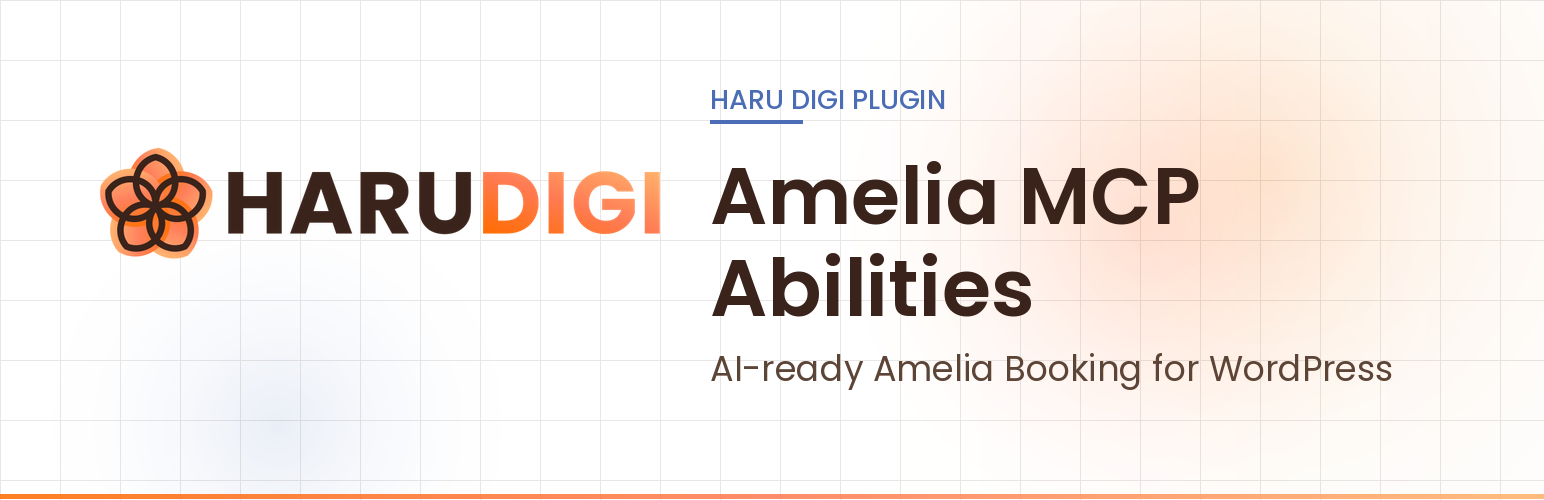
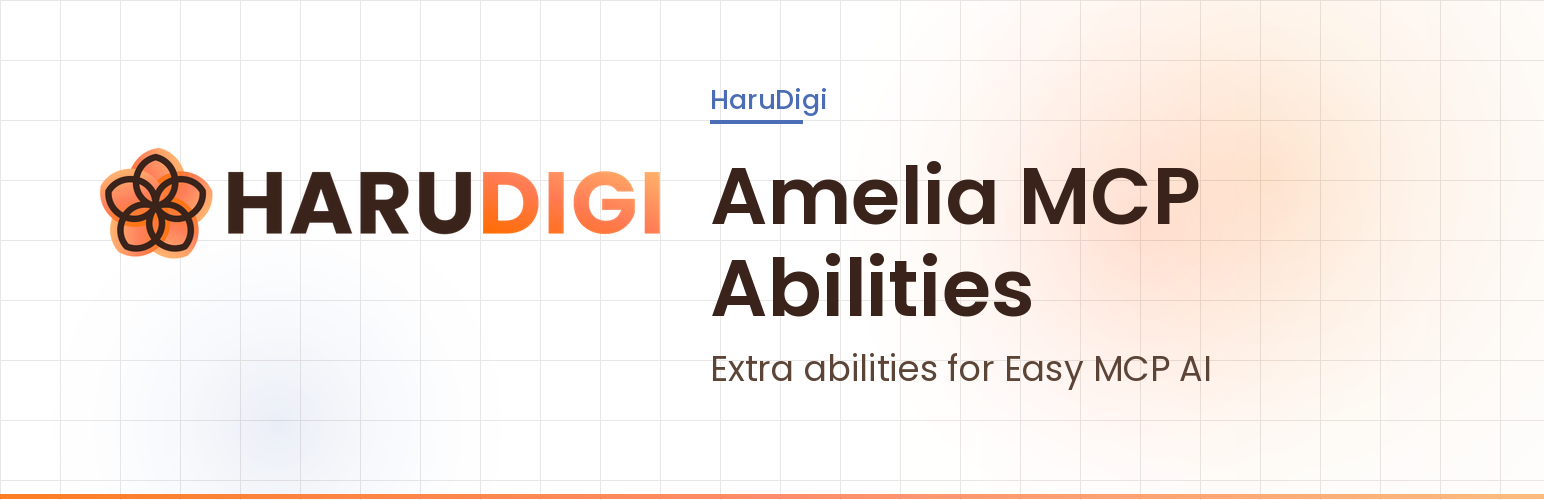
Rebrand to HaruDigi and require Easy MCP AI.
Plugin title is Amelia MCP Abilities - HaruDigi for Amelia-adjacent sorting.
Hard dependency is Easy MCP AI; Amelia is recommended at runtime only.

Changed region(s): [[0.4352, 0.69, 0.9016, 0.78], [0.4663, 0.18, 0.6218, 0.24]]

diff --git a/docs/index.html b/docs/index.html
@@ -3,12 +3,12 @@
 <head>
   <meta charset="utf-8" />
   <meta name="viewport" content="width=device-width, initial-scale=1" />
-  <title>Haru Digi Amelia MCP Abilities — AI-ready Amelia Booking for WordPress</title>
-  <meta name="description" content="Haru Digi Amelia MCP Abilities extends Amelia Booking with safe MCP tools for AI agents. Built by Haru Digi for SMBs that need a proper website, stronger reach, automations, and trust." />
-  <meta name="author" content="Jens Madsen, Haru Digi" />
+  <title>Amelia MCP Abilities - HaruDigi — Extra Amelia tools for Easy MCP AI</title>
+  <meta name="description" content="Amelia MCP Abilities - HaruDigi adds safe Amelia Booking abilities to Easy MCP AI. Built by HaruDigi for SMBs that need a proper website, stronger reach, automations, and trust." />
+  <meta name="author" content="Jens Madsen, HaruDigi" />
   <link rel="canonical" href="https://smvueno.github.io/harudigi-amelia-mcp-abilities/" />
-  <meta property="og:title" content="Haru Digi Amelia MCP Abilities" />
-  <meta property="og:description" content="Full Amelia Booking control for AI agents via WordPress Abilities / Easy MCP AI. By Haru Digi." />
+  <meta property="og:title" content="Amelia MCP Abilities - HaruDigi" />
+  <meta property="og:description" content="Extra Amelia Booking abilities for Easy MCP AI. By HaruDigi." />
   <meta property="og:url" content="https://smvueno.github.io/harudigi-amelia-mcp-abilities/" />
   <meta property="og:type" content="website" />
   <meta name="theme-color" content="#4A6DB5" />
@@ -116,11 +116,11 @@
 </head>
 <body>
   <main class="wrap">
-    <img class="hero-banner" src="banner.png" width="772" height="250" alt="Haru Digi Amelia MCP Abilities" />
-    <p class="brand"><a href="https://harudigi.com">Haru Digi</a></p>
+    <img class="hero-banner" src="banner.png" width="772" height="250" alt="Amelia MCP Abilities - HaruDigi" />
+    <p class="brand"><a href="https://harudigi.com">HaruDigi</a></p>
     <h1>Amelia MCP Abilities</h1>
     <p class="lede">
-      Full Amelia Booking control for AI agents on WordPress — catalog, bookings, payments, and settings — without exposing secrets.
+      Extra Amelia Booking abilities for Easy MCP AI — catalog, bookings, payments, and settings — without exposing secrets.
     </p>
     <div class="cta">
       <a class="btn btn-primary" href="https://github.com/smvueno/harudigi-amelia-mcp-abilities/releases">Download latest release</a>
@@ -131,18 +131,18 @@
     <section>
       <h2>Built for SMBs that want AI-ready ops</h2>
       <p>
-        <strong>Haru Digi</strong> helps small and mid-sized businesses get a proper website,
+        <strong>HaruDigi</strong> helps small and mid-sized businesses get a proper website,
         stronger reach to clients, practical automations, and trust — with customers and with AI engines.
         <em>Haru</em> means new beginning and spring; <em>Digi</em> means digital.
       </p>
-      <p>Author: <strong>Jens Madsen</strong> · Brand: <strong>Haru Digi</strong></p>
+      <p>Author: <strong>Jens Madsen</strong> · Brand: <strong>HaruDigi</strong></p>
     </section>
 
     <section>
       <h2>What the plugin does</h2>
       <ul>
-        <li>Extends Amelia’s built-in MCP abilities (does not duplicate core tools)</li>
-        <li>Adds catalog, booking, payment, and settings abilities for Easy MCP AI</li>
+        <li>Adds Amelia abilities to Easy MCP AI (does not duplicate Amelia core tools)</li>
+        <li>Catalog, booking, payment, and settings coverage for AI agents</li>
         <li>Redacts secrets; blocks unsafe password / externalId writes</li>
         <li>Requires explicit confirmation for destructive deletes</li>
         <li>Updates from public GitHub Releases via WordPress’ native Update URI flow</li>
@@ -152,9 +152,10 @@
     <section>
       <h2>Install in minutes</h2>
       <ol>
-        <li>Install &amp; activate Amelia Booking</li>
+        <li>Install &amp; activate <strong>Easy MCP AI</strong> (required)</li>
         <li>Upload the release ZIP (folder must be <code>harudigi-amelia-mcp-abilities</code>)</li>
-        <li>Activate the plugin; enable abilities in Easy MCP AI</li>
+        <li>Activate <strong>Amelia MCP Abilities - HaruDigi</strong></li>
+        <li>Activate Amelia Booking so the abilities can run</li>
         <li>Optional: turn on auto-updates in Plugins</li>
       </ol>
     </section>
@@ -169,7 +170,7 @@
 
     <footer>
       <p>
-        <strong>Haru Digi</strong> — websites, reach, automations, and trust for SMBs.<br />
+        <strong>HaruDigi</strong> — websites, reach, automations, and trust for SMBs.<br />
         <a href="https://harudigi.com">harudigi.com</a>
         · <a href="https://github.com/smvueno/harudigi-amelia-mcp-abilities">GitHub</a>
         · <a href="https://github.com/smvueno/harudigi-amelia-mcp-abilities/blob/main/SECURITY.md">Security</a>

diff --git a/harudigi-amelia-mcp-abilities.php b/harudigi-amelia-mcp-abilities.php
@@ -1,25 +1,25 @@
 <?php
 /**
- * Plugin Name:       Haru Digi Amelia MCP Abilities
+ * Plugin Name:       Amelia MCP Abilities - HaruDigi
  * Plugin URI:        https://smvueno.github.io/harudigi-amelia-mcp-abilities/
- * Description:       Extends Amelia Booking MCP abilities with full admin control for Easy MCP AI (catalog, bookings, payments, settings). Built by Haru Digi for SMBs that want AI-ready WordPress operations.
- * Version:           1.5.0
+ * Description:       Adds Amelia Booking admin abilities to Easy MCP AI (catalog, bookings, payments, settings). Built by HaruDigi for SMBs that want AI-ready WordPress operations.
+ * Version:           1.5.1
  * Requires at least: 6.9
  * Requires PHP:      7.4
- * Requires Plugins:  ameliabooking
- * Author:            Jens Madsen · Haru Digi
+ * Requires Plugins:  easy-mcp-ai
+ * Author:            Jens Madsen · HaruDigi
  * Author URI:        https://harudigi.com
  * Update URI:        https://github.com/smvueno/harudigi-amelia-mcp-abilities
  * Text Domain:       harudigi-amelia-mcp-abilities
  * License:           GPL-2.0-or-later
  * License URI:       https://www.gnu.org/licenses/gpl-2.0.html
  *
- * Haru Digi (“Haru” = new beginning / spring, “Digi” = digital) helps SMBs get a proper
+ * HaruDigi (“Haru” = new beginning / spring, “Digi” = digital) helps SMBs get a proper
  * website, stronger reach, automations, and trust with clients and AI engines.
  *
- * Amelia Pro already registers: list-services/employees/customers/events/appointments,
- * check-availability, add-service/customer, create-appointment/event, book-event, cancel-booking.
- * This plugin fills the gaps. Secrets stay redacted. Destructive deletes need confirm=true.
+ * This plugin exposes extra Amelia abilities to Easy MCP AI. Amelia Booking should be
+ * active for those abilities to run. Amelia Pro already registers core MCP abilities;
+ * this plugin fills the gaps. Secrets stay redacted. Destructive deletes need confirm=true.
  * Password/externalId writes are blocked.
  *
  * @package Harudigi_Amelia_MCP_Abilities
@@ -29,7 +29,7 @@ if ( ! defined( 'ABSPATH' ) ) {
 	exit;
 }
 
-define( 'HARUDIGI_AMELIA_MCP_VERSION', '1.5.0' );
+define( 'HARUDIGI_AMELIA_MCP_VERSION', '1.5.1' );
 define( 'HARUDIGI_AMELIA_MCP_FILE', __FILE__ );
 define( 'HARUDIGI_AMELIA_MCP_DIR', plugin_dir_path( __FILE__ ) );
 
@@ -184,6 +184,26 @@ function amelia_mcp_maybe_sync_easy_mcp(): void {
 	amelia_mcp_enable_in_easy_mcp();
 }
 
+/**
+ * @param string $message Notice text.
+ * @param string $type    notice-error|notice-warning.
+ */
+function harudigi_amelia_mcp_admin_notice( string $message, string $type = 'notice-warning' ): void {
+	add_action(
+		'admin_notices',
+		static function () use ( $message, $type ): void {
+			if ( ! current_user_can( 'activate_plugins' ) ) {
+				return;
+			}
+			printf(
+				'<div class="notice %1$s"><p>%2$s</p></div>',
+				esc_attr( $type ),
+				esc_html( $message )
+			);
+		}
+	);
+}
+
 register_activation_hook( __FILE__, 'amelia_mcp_enable_in_easy_mcp' );
 
 add_action(
@@ -191,17 +211,19 @@ add_action(
 	static function (): void {
 		Harudigi_Amelia_MCP_Abilities\GitHub_Updater::init();
 
+		if ( ! defined( 'EASY_MCP_AI_VERSION' ) ) {
+			harudigi_amelia_mcp_admin_notice(
+				__( 'Amelia MCP Abilities - HaruDigi requires Easy MCP AI to be active.', 'harudigi-amelia-mcp-abilities' ),
+				'notice-error'
+			);
+			return;
+		}
+
+		// Amelia powers the abilities; Easy MCP AI is the required host.
 		if ( ! defined( 'AMELIA_PATH' ) || ! defined( 'AMELIA_VERSION' ) ) {
-			add_action(
-				'admin_notices',
-				static function (): void {
-					if ( ! current_user_can( 'activate_plugins' ) ) {
-						return;
-					}
-					echo '<div class="notice notice-warning"><p>';
-					echo esc_html__( 'Haru Digi Amelia MCP Abilities requires Amelia Booking to be active.', 'harudigi-amelia-mcp-abilities' );
-					echo '</p></div>';
-				}
+			harudigi_amelia_mcp_admin_notice(
+				__( 'Amelia MCP Abilities - HaruDigi is active, but Amelia Booking is not. Install/activate Amelia to use these abilities in Easy MCP AI.', 'harudigi-amelia-mcp-abilities' ),
+				'notice-warning'
 			);
 			return;
 		}

diff --git a/includes/class-github-updater.php b/includes/class-github-updater.php
@@ -116,7 +116,7 @@ final class GitHub_Updater {
 			'https://api.github.com/repos/' . self::REPO . '/releases/latest',
 			array(
 				'timeout'    => 15,
-				'user-agent' => 'HaruDigi-Amelia-MCP/' . HARUDIGI_AMELIA_MCP_VERSION . '; ' . home_url( '/' ),
+				'user-agent' => 'HaruDigi-Amelia-MCP-Abilities/' . HARUDIGI_AMELIA_MCP_VERSION . '; ' . home_url( '/' ),
 				'headers'    => array(
 					'Accept' => 'application/vnd.github+json',
 				),

diff --git a/README.md b/README.md
@@ -1,22 +1,22 @@
-# Haru Digi Amelia MCP Abilities
+# Amelia MCP Abilities - HaruDigi
 
-![Haru Digi Amelia MCP Abilities](docs/banner.png)
+![Amelia MCP Abilities - HaruDigi](docs/banner.png)
 
-**Give AI agents full, safe control of Amelia Booking on WordPress.**  
-Built by [Haru Digi](https://harudigi.com) — websites, reach, automations, and trust for SMBs.
+**Give Easy MCP AI full, safe Amelia Booking abilities on WordPress.**  
+Built by [HaruDigi](https://harudigi.com) — websites, reach, automations, and trust for SMBs.
 
 [![License: GPL v2](https://img.shields.io/badge/License-GPL%20v2-blue.svg)](LICENSE)
 [![WordPress](https://img.shields.io/badge/WordPress-6.9%2B-blue.svg)](https://wordpress.org/)
 [![GitHub release](https://img.shields.io/github/v/release/smvueno/harudigi-amelia-mcp-abilities)](https://github.com/smvueno/harudigi-amelia-mcp-abilities/releases)
 
 **Docs:** [smvueno.github.io/harudigi-amelia-mcp-abilities](https://smvueno.github.io/harudigi-amelia-mcp-abilities/)  
-**Author:** Jens Madsen · **Brand:** Haru Digi · **Site:** [harudigi.com](https://harudigi.com)
+**Author:** Jens Madsen · **Brand:** HaruDigi · **Site:** [harudigi.com](https://harudigi.com)
 
 ---
 
-## Why Haru Digi ships this
+## Why HaruDigi ships this
 
-Haru Digi helps small and mid-sized businesses get a **proper website**, **stronger reach to clients**, **practical automations**, and **trust** — with people and with AI engines.
+HaruDigi helps small and mid-sized businesses get a **proper website**, **stronger reach to clients**, **practical automations**, and **trust** — with people and with AI engines.
 
 - **Haru** — Japanese for a new beginning and spring  
 - **Digi** — digital  
@@ -25,7 +25,7 @@ This plugin is part of that mission: make WordPress booking ops **AI-ready** wit
 
 ## What it does
 
-Amelia Pro already registers a core set of MCP abilities. This plugin **fills the gaps** for catalog, bookings, payments, and settings:
+Amelia Pro already registers a core set of MCP abilities. This plugin **fills the gaps** for catalog, bookings, payments, and settings — and exposes them through **Easy MCP AI**:
 
 - Extra reads/writes for services, categories, locations, employees, packages, extras, resources, coupons, custom fields
 - Appointment/event/customer ops beyond the native set
@@ -40,15 +40,17 @@ Ability slugs stay under `amelia/*` so existing MCP clients keep working.
 |-------------|--------|
 | WordPress 6.9+ | Abilities API era |
 | PHP 7.4+ | |
-| Amelia Booking | Active (`Requires Plugins: ameliabooking`) |
-| Easy MCP AI | Recommended bridge for Cursor / MCP hosts |
+| Easy MCP AI | **Required** (`Requires Plugins: easy-mcp-ai`) |
+| Amelia Booking | Recommended — powers the abilities at runtime |
 
 ## Install
 
-1. Download the latest **`harudigi-amelia-mcp-abilities-*.zip`** from [Releases](https://github.com/smvueno/harudigi-amelia-mcp-abilities/releases).
-2. In WordPress: **Plugins → Add New → Upload Plugin**.
-3. Activate **Haru Digi Amelia MCP Abilities**.
-4. Optional: **Enable auto-updates** on the plugin row (checks public GitHub Releases).
+1. Install & activate **Easy MCP AI**.
+2. Download the latest **`harudigi-amelia-mcp-abilities-*.zip`** from [Releases](https://github.com/smvueno/harudigi-amelia-mcp-abilities/releases).
+3. In WordPress: **Plugins → Add New → Upload Plugin**.
+4. Activate **Amelia MCP Abilities - HaruDigi**.
+5. Activate Amelia Booking so the abilities can run.
+6. Optional: **Enable auto-updates** on the plugin row (checks public GitHub Releases).
 
 ### Migrating from `amelia-mcp-abilities`
 
@@ -71,7 +73,7 @@ When the plugin is listed on **WordPress.org**, remove/gate the GitHub updater s
 git clone https://github.com/smvueno/harudigi-amelia-mcp-abilities.git
 ```
 
-Release: push a tag `v1.5.0` (or create a GitHub Release). CI builds the installable ZIP with the correct folder name.
+Release: push a tag `v1.5.1` (or create a GitHub Release). CI builds the installable ZIP with the correct folder name.
 
 ## License
 
@@ -79,7 +81,7 @@ GPL-2.0-or-later. See [LICENSE](LICENSE).
 
 ## Links
 
-- [Haru Digi](https://harudigi.com) — SMB websites, reach, automations, trust  
+- [HaruDigi](https://harudigi.com) — SMB websites, reach, automations, trust  
 - [Plugin docs (GitHub Pages)](https://smvueno.github.io/harudigi-amelia-mcp-abilities/)  
 - [Issues](https://github.com/smvueno/harudigi-amelia-mcp-abilities/issues)  
 - [Security policy](SECURITY.md)

diff --git a/CONTRIBUTING.md b/CONTRIBUTING.md
@@ -1,8 +1,8 @@
 # Contributing
 
-Thanks for helping improve **Haru Digi Amelia MCP Abilities**.
+Thanks for helping improve **Amelia MCP Abilities - HaruDigi**.
 
-[Haru Digi](https://harudigi.com) builds WordPress sites and tools so SMBs can get a proper website, stronger client reach, automations, and trust (including with AI systems). Contributions that keep that bar — safe, clear, maintainable — are welcome.
+[HaruDigi](https://harudigi.com) builds WordPress sites and tools so SMBs can get a proper website, stronger client reach, automations, and trust (including with AI systems). Contributions that keep that bar — safe, clear, maintainable — are welcome.
 
 ## Ground rules
 
@@ -11,11 +11,12 @@ Thanks for helping improve **Haru Digi Amelia MCP Abilities**.
 3. Destructive actions must require `confirm=true`.
 4. Keep PHP files modular and under ~500 lines where practical.
 5. Match existing coding style (WordPress PHP conventions).
+6. In prose, the brand is **HaruDigi** (one word, camel case). Logo lettering may stay **HARUDIGI**.
 
 ## Development
 
 1. Fork and clone this repo.
-2. Symlink or bind-mount into a WordPress install next to Amelia Booking + Easy MCP AI.
+2. Symlink or bind-mount into a WordPress install with Easy MCP AI (+ Amelia Booking for runtime tests).
 3. Make a focused change; open a PR against `main`.
 
 ## Releases
@@ -26,4 +27,4 @@ Maintainers tag `vX.Y.Z`. GitHub Actions builds `harudigi-amelia-mcp-abilities-X
 
 Be respectful. Harassment or spam will be removed.
 
-— Jens Madsen · Haru Digi · https://harudigi.com
+— Jens Madsen · HaruDigi · https://harudigi.com

diff --git a/SECURITY.md b/SECURITY.md
@@ -2,7 +2,7 @@
 
 ## Supported versions
 
-We support the latest release of **Haru Digi Amelia MCP Abilities** on the `main` branch and GitHub Releases.
+We support the latest release of **Amelia MCP Abilities - HaruDigi** on the `main` branch and GitHub Releases.
 
 ## Reporting a vulnerability
 
@@ -13,7 +13,7 @@ Email: **hello@harudigi.com** (subject: `Security — harudigi-amelia-mcp-abilit
 Include:
 
 - Plugin version
-- WordPress / PHP / Amelia versions
+- WordPress / PHP / Easy MCP AI / Amelia versions
 - Steps to reproduce
 - Impact assessment (data exposure, privilege escalation, etc.)
 
@@ -26,4 +26,4 @@ We aim to acknowledge reports within a few business days.
 - Destructive deletes require explicit `confirm=true`
 - Prefer cancel / hide / disable over permanent delete when possible
 
-Built by [Haru Digi](https://harudigi.com) — Jens Madsen.
+Built by [HaruDigi](https://harudigi.com) — Jens Madsen.
